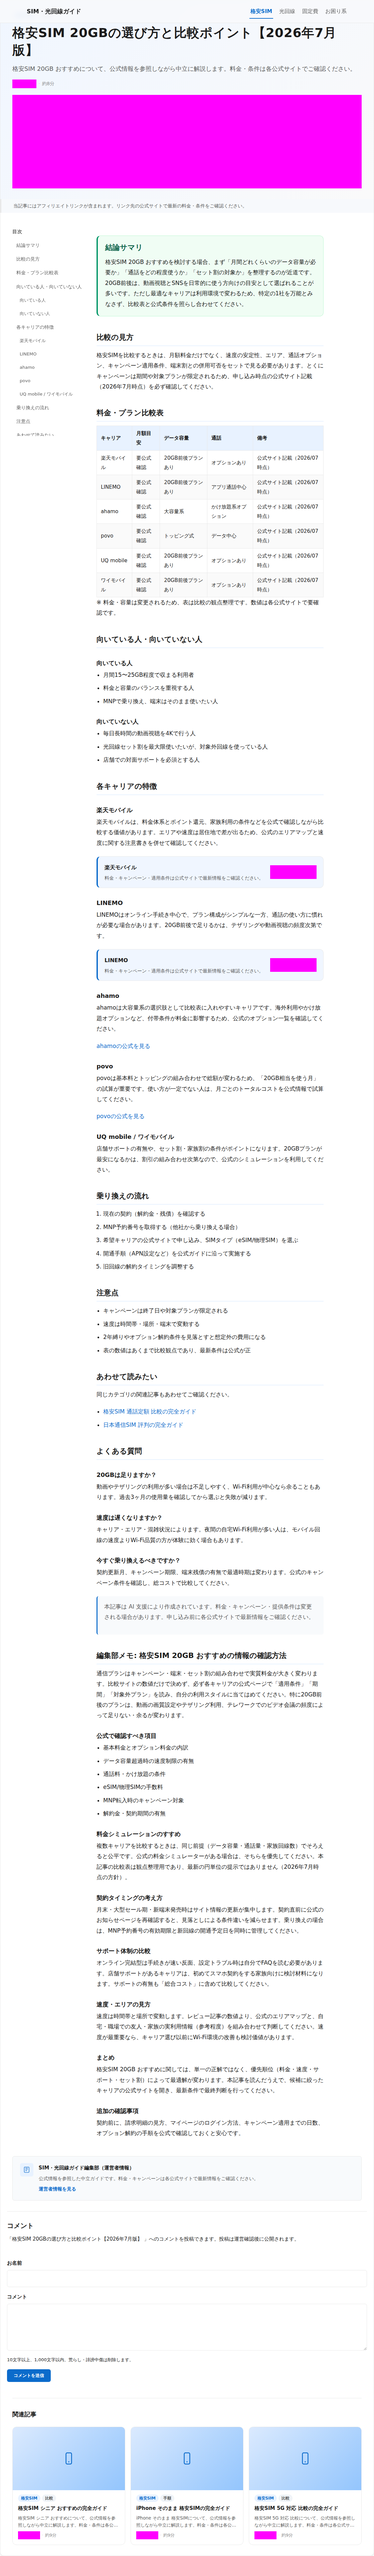
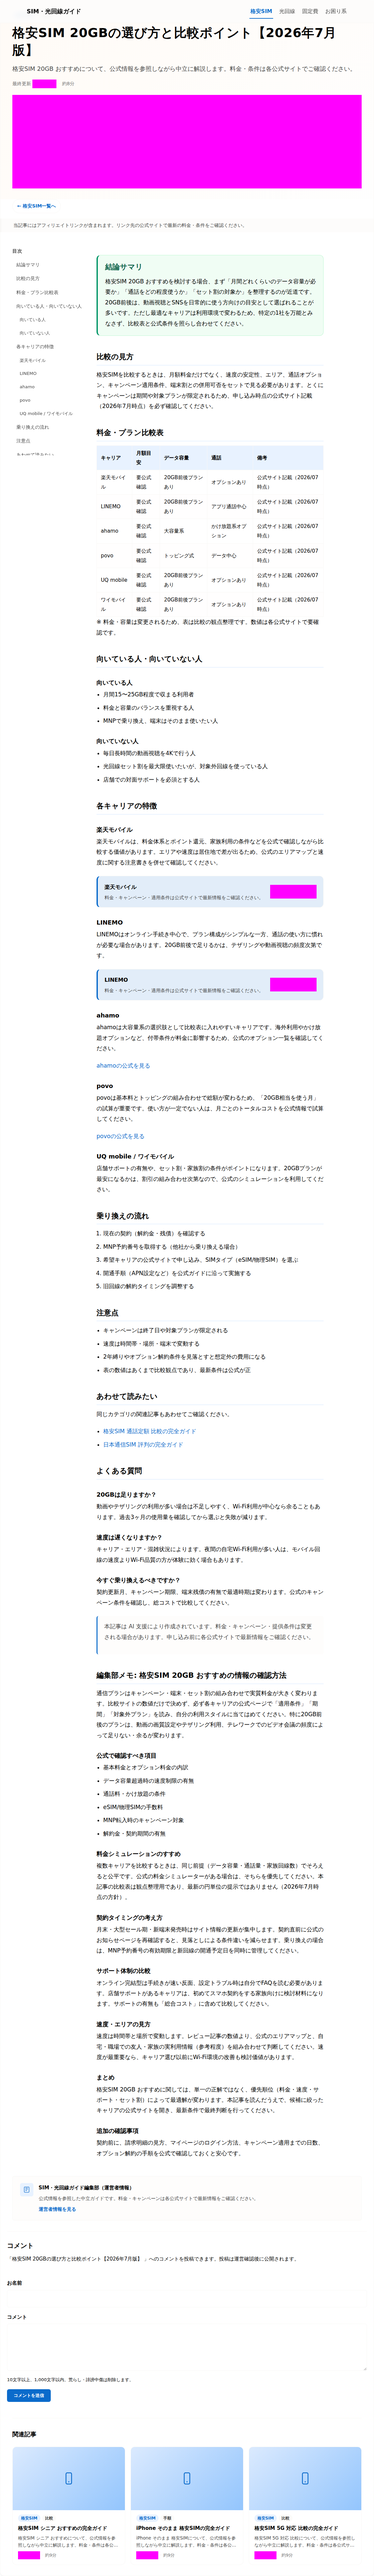
feat(site): Hub ↔ 記事 ↔ Hub 固定リンクブロック (#91)
* feat(site): add Hub ↔ article fixed internal link mesh

Add featured article blocks on /sim, /hikari, /cost hubs and category
back-links on article pages without changing existing layouts.

* chore(ci): upload visual diff artifacts for PR comment

---------

diff --git a/site/src/data/hub-article-mesh.ts b/site/src/data/hub-article-mesh.ts
@@ -1,0 +1,76 @@
+import type { CategorySlug } from "./category-meta";
+
+export type HubFeaturedArticle = {
+  slug: string;
+  label: string;
+};
+
+export type HubArticleMesh = {
+  hubLabel: string;
+  hubHref: string;
+  intro: string;
+  featured: HubFeaturedArticle[];
+};
+
+/** Fixed Hub ↔ article link mesh for primary category hubs. */
+export const hubArticleMesh: Partial<Record<CategorySlug, HubArticleMesh>> = {
+  sim: {
+    hubLabel: "格安SIM",
+    hubHref: "/sim",
+    intro: "格安SIMカテゴリの代表的な比較・手順記事です。",
+    featured: [
+      {
+        slug: "sim-osusume-hikaku-2026",
+        label: "2026年版 格安SIM比較",
+      },
+      {
+        slug: "sim-20gb-osusume",
+        label: "20GBプランの選び方",
+      },
+      {
+        slug: "rakuten-mobile-switch",
+        label: "楽天モバイル乗り換え手順",
+      },
+    ],
+  },
+  hikari: {
+    hubLabel: "光回線",
+    hubHref: "/hikari",
+    intro: "光回線カテゴリの代表的な比較・乗り換え記事です。",
+    featured: [
+      {
+        slug: "hikari-switch-osusume",
+        label: "光回線の乗り換えおすすめ",
+      },
+      {
+        slug: "nuro-hikari-campaign",
+        label: "NURO光 料金・キャンペーン",
+      },
+      {
+        slug: "hikari-mansion-osusume",
+        label: "マンション向け光回線",
+      },
+    ],
+  },
+  cost: {
+    hubLabel: "固定費・ライフイベント",
+    hubHref: "/cost",
+    intro: "通信×固定費セット見直しの代表記事です。",
+    featured: [
+      {
+        slug: "au-denki-setwari",
+        label: "auでんき セット割",
+      },
+      {
+        slug: "rakuten-denki-rakuten-mobile",
+        label: "楽天でんき × 楽天モバイル",
+      },
+    ],
+  },
+};
+
+export function getHubArticleMesh(
+  category: CategorySlug,
+): HubArticleMesh | undefined {
+  return hubArticleMesh[category];
+}
